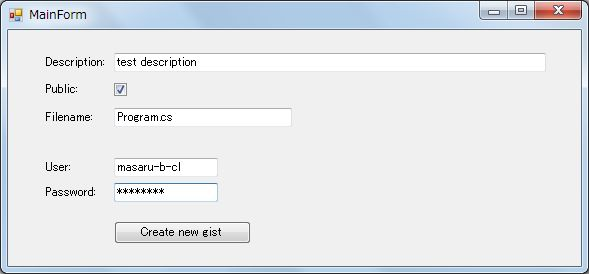
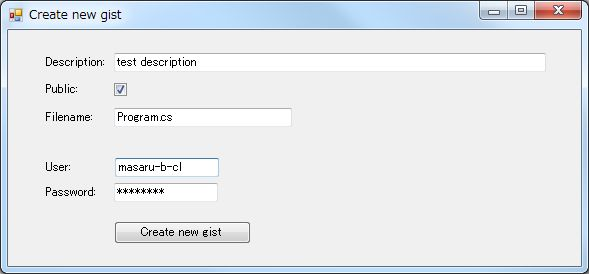
GistSharpExtension：GitHubアカウント情報をVSのオプションで事前に設定できるよう変更

diff --git a/GistSharpExtension/GistSharpExtensionPackage.cs b/GistSharpExtension/GistSharpExtensionPackage.cs
@@ -32,6 +32,7 @@ namespace TAKANOSho.GistSharpExtension
   // This attribute is needed to let the shell know that this package exposes some menus.
   [ProvideMenuResource("Menus.ctmenu", 1)]
   [Guid(GuidList.guidGistSharpExtensionPkgString)]
+  [ProvideOptionPage(typeof(GistSharpExtensionOptionPage), "GistSharpExtension", "General", 101, 106, true)]
   public sealed class GistSharpExtensionPackage : Package
   {
     /// <summary>
@@ -88,9 +89,24 @@ namespace TAKANOSho.GistSharpExtension
 
         if (doc != null)
         {
+          // GitHubアカウント情報を取得
+          string user = null;
+          string password = null;
+          var regRoot = UserRegistryRoot;
+          var dialogPageRegKey = regRoot.OpenSubKey(typeof(DialogPage).Name);
+          if (dialogPageRegKey != null)
+          {
+            var optionRegKey = dialogPageRegKey.OpenSubKey(typeof(GistSharpExtensionOptionPage).FullName);
+            if (optionRegKey != null)
+            {
+              user = optionRegKey.GetValue("User") as string;
+              password = optionRegKey.GetValue("Password") as string;
+            }
+          }
+
           // ファイルパスを取得
           var fullname = doc.FullName;
-          using (var form = new MainForm(fullname))
+          using (var form = new MainForm(fullname, user, password))
           {
             form.ShowDialog();
           }

diff --git a/GistSharpExtension/GistSharpExtensionOptionPage.cs b/GistSharpExtension/GistSharpExtensionOptionPage.cs
@@ -1,0 +1,22 @@
+using System;
+using System.Collections.Generic;
+using System.Linq;
+using System.Text;
+using Microsoft.VisualStudio.Shell;
+using System.ComponentModel;
+
+namespace TAKANOSho.GistSharpExtension
+{
+  public class GistSharpExtensionOptionPage : DialogPage
+  {
+    [Category("GitHub account settings")]
+    [DisplayName("User")]
+    [Description("GitHub account user name.")]
+    public string User { get; set; }
+
+    [Category("GitHub account settings")]
+    [DisplayName("Password")]
+    [Description("GitHub account password.")]
+    public string Password { get; set; }
+  }
+}

diff --git a/GistSharpExtension/Properties/AssemblyInfo.cs b/GistSharpExtension/Properties/AssemblyInfo.cs
@@ -29,8 +29,8 @@ using System.Runtime.InteropServices;
 // You can specify all the values or you can default the Revision and Build Numbers 
 // by using the '*' as shown below:
 
-[assembly: AssemblyVersion("1.0.1.0")]
-[assembly: AssemblyFileVersion("1.0.1.0")]
+[assembly: AssemblyVersion("1.1.0.0")]
+[assembly: AssemblyFileVersion("1.1.0.0")]
 
 
 
